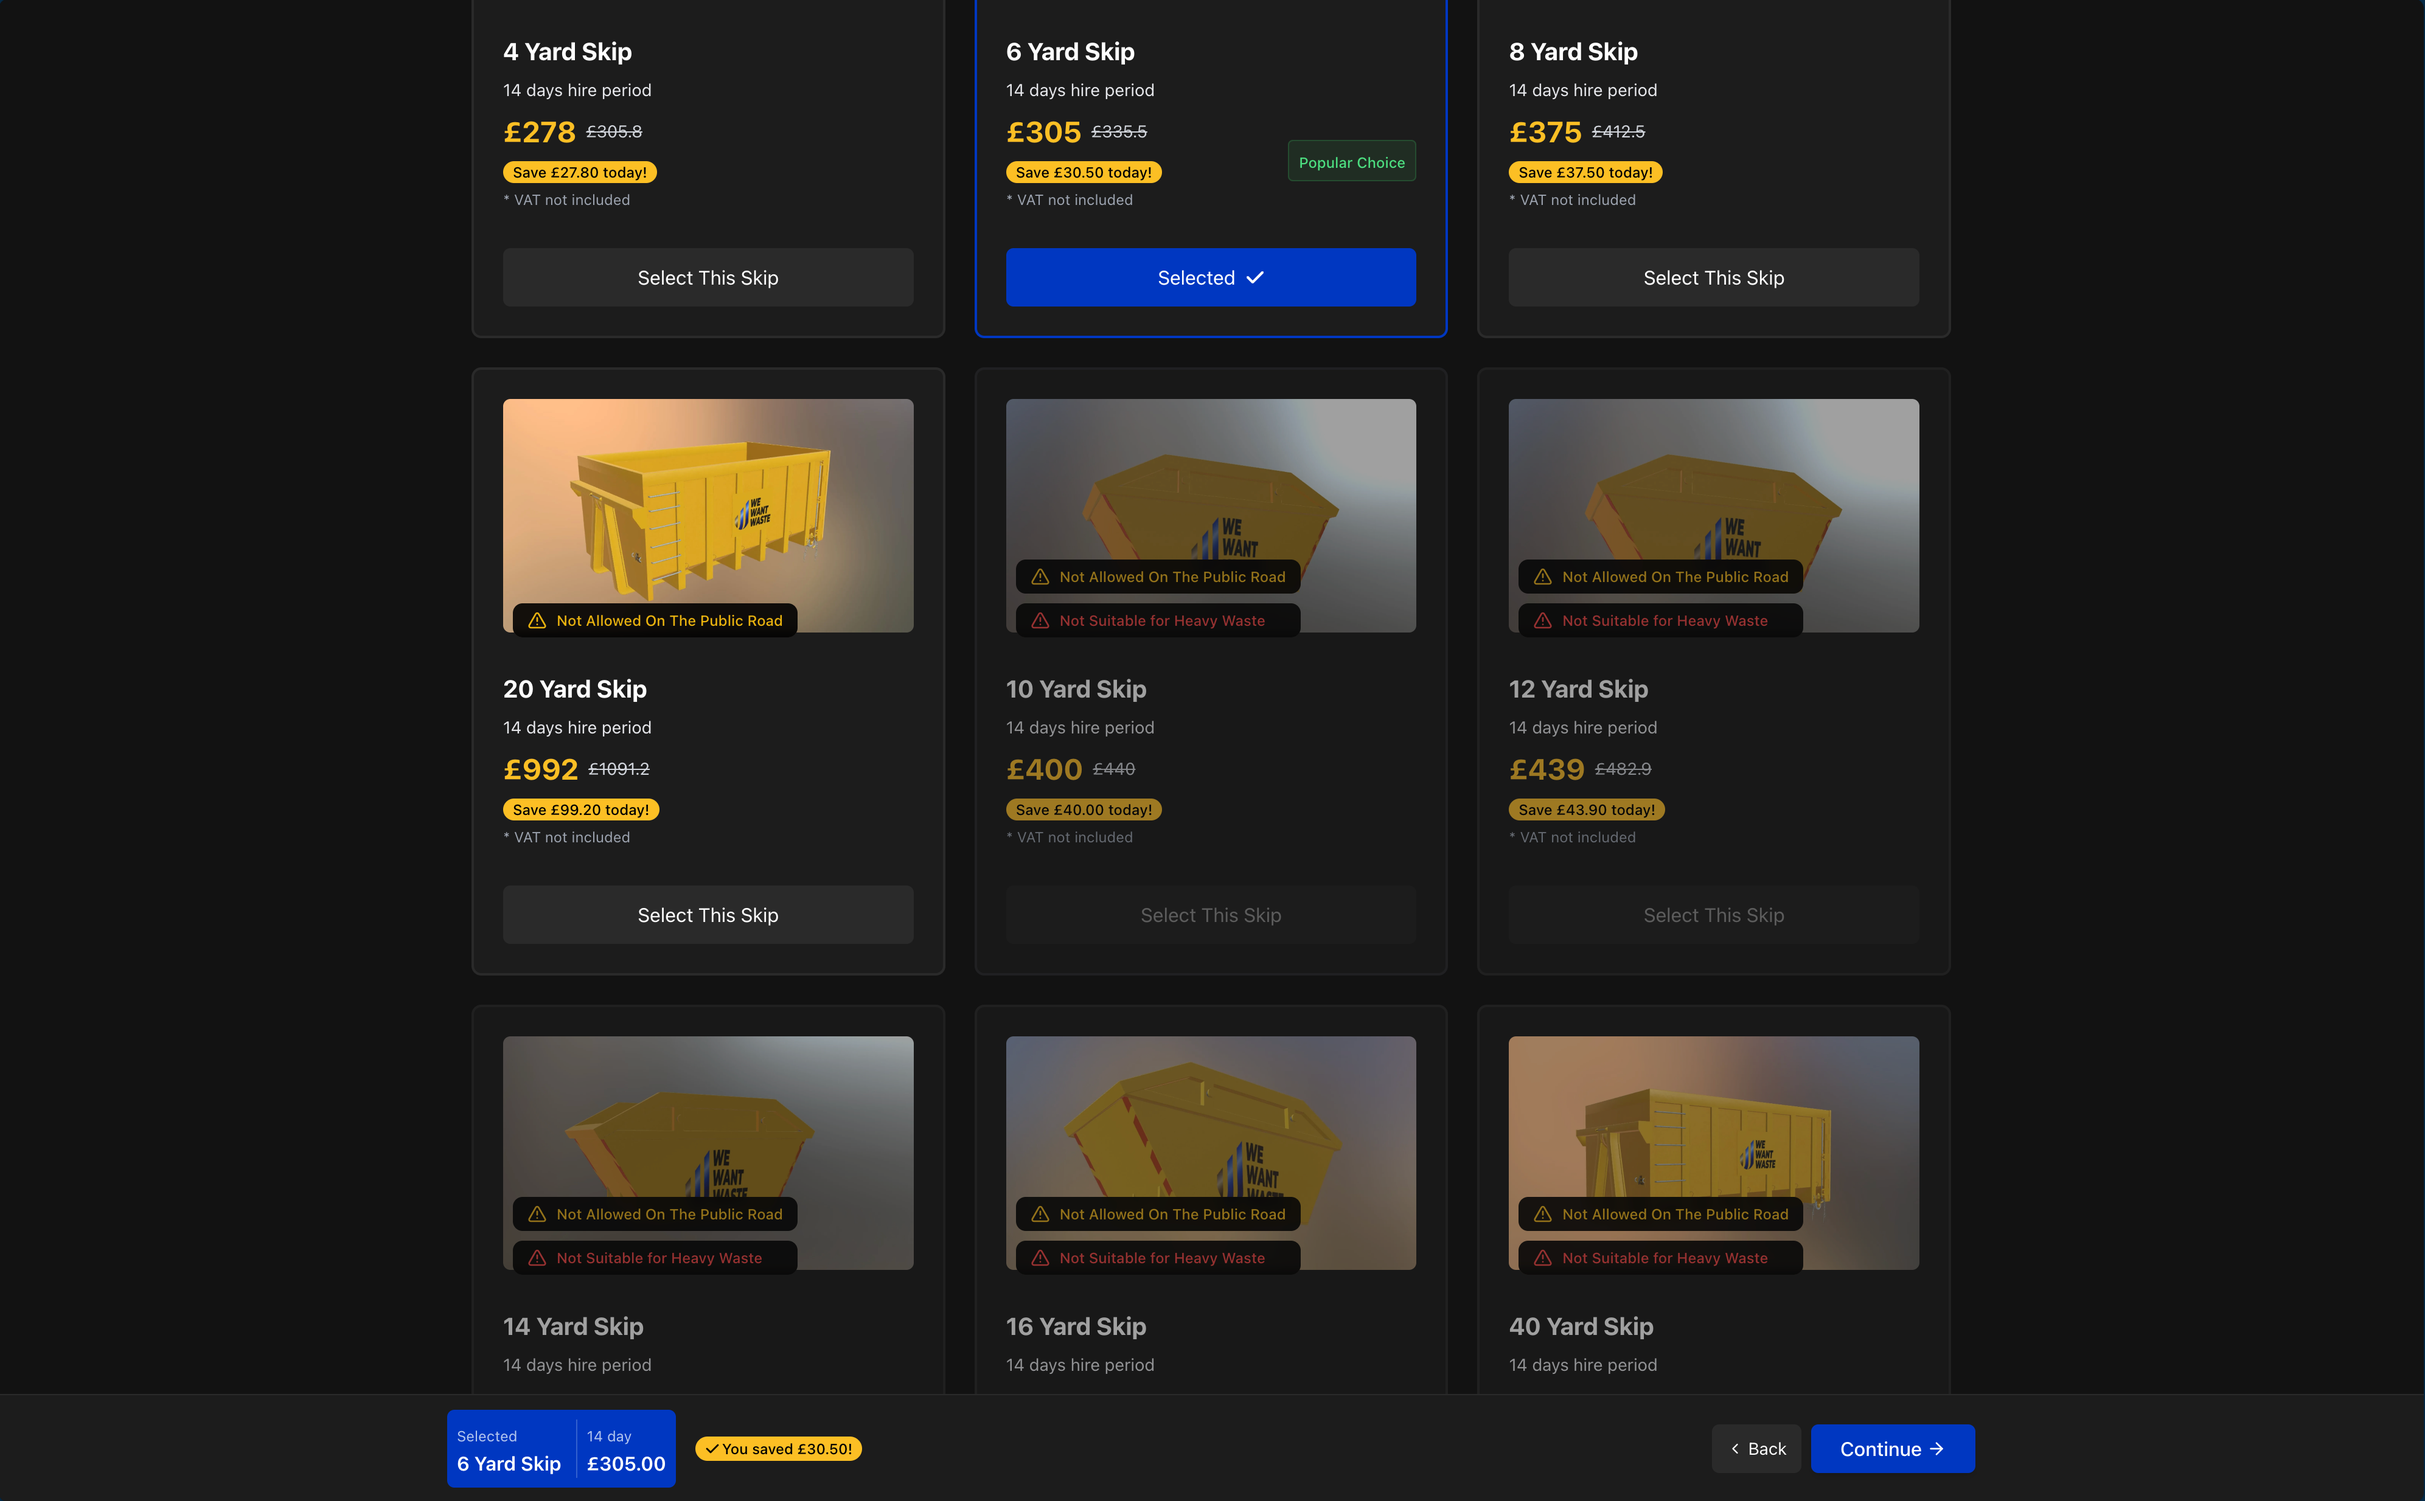
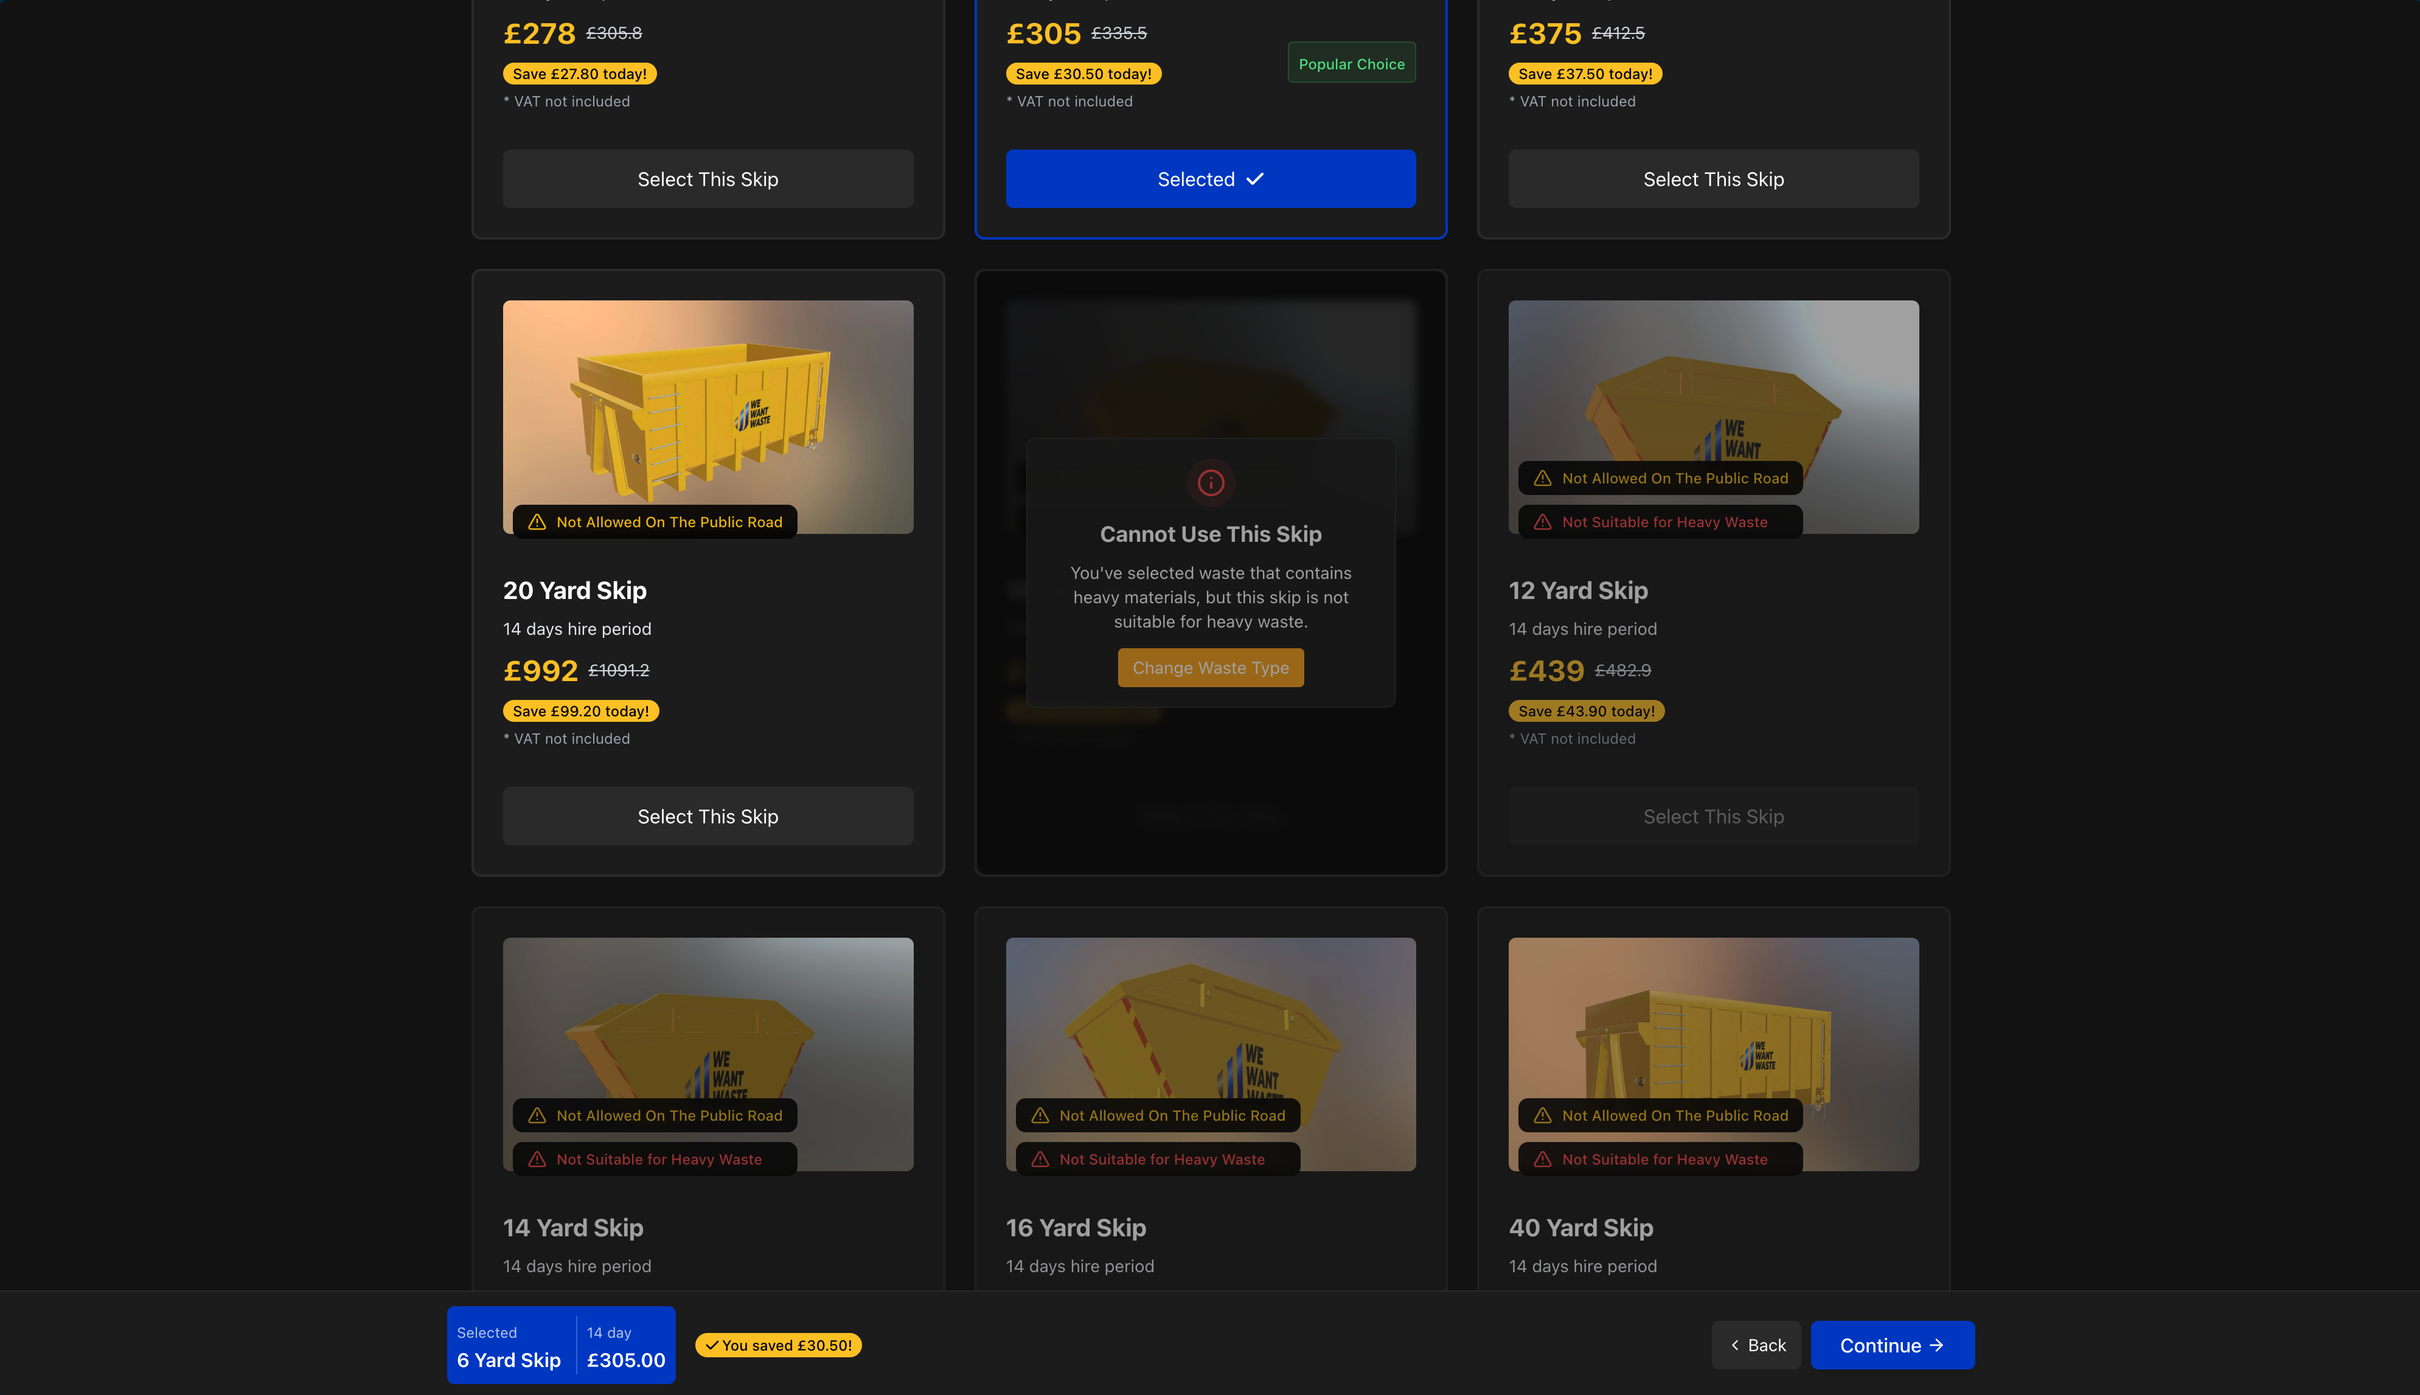
feat: update after-ss-2.png image and update readme

diff --git a/README.md b/README.md
@@ -194,6 +194,47 @@ export function useSkips() {
 }
 ```
 
+## Performance Optimizations
+
+### Image Optimization
+
+This project implements automated image optimization using Gulp and Sharp to improve page load times and performance:
+
+```javascript
+// gulpfile.js
+const gulp = require('gulp');
+const sharp = require('sharp');
+const path = require('path');
+const fs = require('fs-extra');
+
+async function optimizeFolder(subfolder) {
+  const srcDir = path.join(imagesDir, subfolder);
+  const destDir = path.join(imagesDir, subfolder + '_optimized');
+  await fs.ensureDir(destDir);
+  const files = (await fs.readdir(srcDir)).filter((file) =>
+    /\.(jpe?g|png|webp)$/i.test(file),
+  );
+
+  await Promise.all(
+    files.map(async (file) => {
+      const inputPath = path.join(srcDir, file);
+      const outputName = path.parse(file).name + '.webp';
+      const outputPath = path.join(destDir, outputName);
+      await sharp(inputPath).webp({ quality: 80 }).toFile(outputPath);
+    }),
+  );
+}
+```
+
+**Key Features:**
+
+- **WebP Conversion**: All images are converted to the modern WebP format for smaller file sizes
+- **Quality Optimization**: Images are optimized at 80% quality, balancing visual fidelity with performance
+- **Organized Structure**: Optimized images are stored in separate "_optimized" folders
+- **Broad Format Support**: Works with JPEG, PNG, and existing WebP files
+
+This optimization process significantly reduces image file sizes while maintaining visual quality, resulting in faster page loads and improved user experience.
+
 ## UI/UX Improvements
 
 This project implements several significant improvements over the original [WeWantWaste](https://wewantwaste.co.uk/) website. The following changes enhance user experience and conversion rates:
@@ -228,7 +269,7 @@ This project implements several significant improvements over the original [WeWa
 
 - **Clear Reasoning**: Added explicit explanation of why skips cannot be selected
 - **Action Options**: Included button to change waste type when larger skip sizes are needed
-- **Better Organization**: Improved skip ordering for better discoverability
+- **Better Organization**: Improved skip ordering for better discoverability, so all available skips comes before unavailable skips
 
 ### Waste Selection Improvements
 
